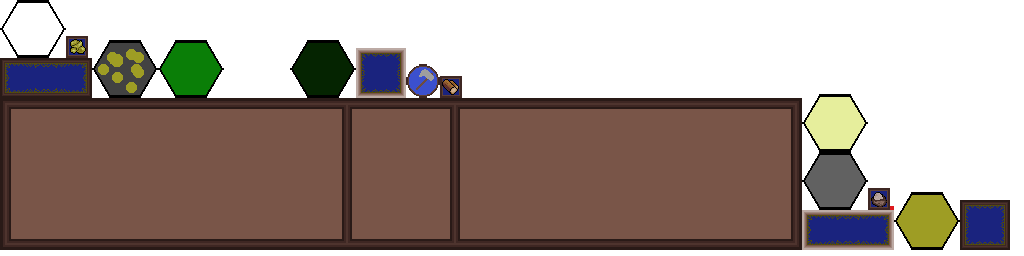
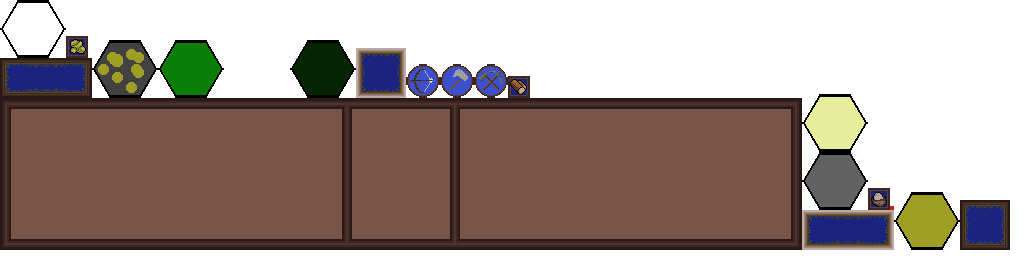
Workers and cities I guess

Changed region(s): [[0.4062, 0.25, 0.5312, 0.4062]]

diff --git a/LudumDare40/core/src/com/svarttand/ludumdare40/ui/PlayUI.java b/LudumDare40/core/src/com/svarttand/ludumdare40/ui/PlayUI.java
@@ -44,7 +44,8 @@ public class PlayUI {
 	private Button moveCommandButton;
 	private Button attackCommandButton;
 	private Button BuildCommandButton;
-	private Button button;
+	private Button makeWarriorButton;
+	private Button makeBuilderButton;
 	
 	private Label resourcesText;
 	private Label buildingInfoText;
@@ -104,21 +105,58 @@ public class PlayUI {
 	    buttonList.add(attackCommandButton);
 	    stage.addActor(attackCommandButton);
 	    
-	    BuildCommandButton = new TextButton("B", style);
-	    BuildCommandButton.setPosition(Application.V_WIDTH*0.14f, Application.V_HEIGHT*0.11f);
-	    BuildCommandButton.addListener( new ClickListener() {
+	    makeBuilderButton = new TextButton("Builder", style);
+	    makeBuilderButton.setPosition(Application.V_WIDTH*0.125f, Application.V_HEIGHT*0.11f);
+	    makeBuilderButton.addListener( new ClickListener() {
 	         @Override
 	         public void clicked(InputEvent event, float x, float y) {
 	        	 if (selectedUnit == null && selectedHexagon != null) {
-	        		 selectedUnit = selectedHexagon.addUnit(UnitType.WARRIOR, 1);
-					game.getUnitHandler().addUnit(selectedUnit);
-					System.out.println("Unit added");
+	        		 if (game.getResources().getFood()>= UnitType.WORKER.getFoodCost() && 
+	        			 game.getResources().getWood()>= UnitType.WORKER.getWoodCost() &&
+	        			 game.getResources().getGold()>= UnitType.WORKER.getGoldCost()) {
+	        			 selectedUnit = selectedHexagon.addUnit(UnitType.WORKER, 1);
+	 					game.getUnitHandler().addUnit(selectedUnit);
+	 					System.out.println("Unit added");
+	 					updateButtons();
+	 					
+	 					game.getResources().removeCost(UnitType.WORKER);
+	 					update(game.getResources());
+					}else{
+						System.out.println("Not enough money!");
+					}
+	        		
 				}
-	        	 BuildCommandButton.setChecked(false);
+	        	 makeBuilderButton.setChecked(false);
 	            }
 	        });
-	    buttonList.add(BuildCommandButton);
-	    stage.addActor(BuildCommandButton);
+	    buttonList.add(makeBuilderButton);
+	    stage.addActor(makeBuilderButton);
+	    
+	    makeWarriorButton = new TextButton("Warrior", style);
+	    makeWarriorButton.setPosition(Application.V_WIDTH*0.2f, Application.V_HEIGHT*0.11f);
+	    makeWarriorButton.addListener( new ClickListener() {
+	         @Override
+	         public void clicked(InputEvent event, float x, float y) {
+	        	 if (selectedUnit == null && selectedHexagon != null) {
+	        		 if (game.getResources().getFood()>= UnitType.WARRIOR.getFoodCost() && 
+		        			 game.getResources().getWood()>= UnitType.WARRIOR.getWoodCost() &&
+		        			 game.getResources().getGold()>= UnitType.WARRIOR.getGoldCost()) {
+		        			 selectedUnit = selectedHexagon.addUnit(UnitType.WARRIOR, 1);
+		 					game.getUnitHandler().addUnit(selectedUnit);
+		 					System.out.println("Unit added");
+		 					updateButtons();
+		 					
+		 					game.getResources().removeCost(UnitType.WARRIOR);
+		 					update(game.getResources());
+						}else{
+							System.out.println("Not enough money!");
+						}
+				}
+	        	 makeWarriorButton.setChecked(false);
+	            }
+	        });
+	    buttonList.add(makeWarriorButton);
+	    stage.addActor(makeWarriorButton);
 	    
 	    TextButtonStyle styleTurn = new TextButton.TextButtonStyle();
 	    styleTurn.font = font;
@@ -139,7 +177,8 @@ public class PlayUI {
 	    stage.addActor(endTurnButton);
 	    moveCommandButton.setVisible(false);
 		attackCommandButton.setVisible(false);
-		BuildCommandButton.setVisible(false);
+		makeBuilderButton.setVisible(false);
+		makeWarriorButton.setVisible(false);
 	    
 	}
 	
@@ -175,10 +214,16 @@ public class PlayUI {
 	public void setHex(Hexagon hex){
 		selectedHexagon = hex;
 		selectedUnit = hex.getUnit();
+		updateButtons();
+	}
+	
+	private void updateButtons(){
 		if (selectedHexagon.getType() == TileType.CITY) {
-			BuildCommandButton.setVisible(true);
+			makeBuilderButton.setVisible(true);
+			makeWarriorButton.setVisible(true);
 		}else{
-			BuildCommandButton.setVisible(false);
+			makeBuilderButton.setVisible(false);
+			makeWarriorButton.setVisible(false);
 		}
 		if (selectedUnit == null) {
 			moveCommandButton.setVisible(false);

diff --git a/LudumDare40/core/src/com/svarttand/ludumdare40/map/HexagonMap.java b/LudumDare40/core/src/com/svarttand/ludumdare40/map/HexagonMap.java
@@ -6,6 +6,7 @@ import java.util.Random;
 import com.badlogic.gdx.graphics.g2d.SpriteBatch;
 import com.badlogic.gdx.graphics.g2d.TextureAtlas;
 import com.badlogic.gdx.math.Vector2;
+import com.svarttand.ludumdare40.misc.ResourceHandler;
 import com.svarttand.ludumdare40.units.Unit;
 
 
@@ -20,7 +21,8 @@ public class HexagonMap {
 	
 	private Vector2 startPos;
 	
-	private ArrayList<Unit> unitList;
+	private ArrayList<Hexagon> cityList;
+	
 	
 	public HexagonMap(int x, int y){
 		sizeX = x;
@@ -28,12 +30,13 @@ public class HexagonMap {
 		map = new Hexagon[x][y];
 		Random random = new Random();
 		createMap(random);
-		unitList = new ArrayList<Unit>();
+		cityList = new ArrayList<Hexagon>();
 		int randx = random.nextInt((sizeX - 5)) + 3;
 		int randy = random.nextInt((sizeY - 5)) + 3;
 		
 		map[randx][randy].setType(TileType.CITY);
 		startPos = new Vector2(map[randx][randy].getPosX(), map[randx][randy].getPosY());
+		cityList.add(map[randx][randy]);
 	}
 	
 	private void createMap(Random random){
@@ -137,6 +140,14 @@ public class HexagonMap {
 	
 	public Vector2 getStartPos(){
 		return startPos;
+	}
+	
+	public void update(ResourceHandler handler){
+		for (int i = 0; i < cityList.size(); i++) {
+			for (int j = 0; j < cityList.get(i).getNeighbors().size(); j++) {
+				handler.addTilesResourcers(cityList.get(i).getNeighbors().get(j));
+			}
+		}
 	}
 
 }

diff --git a/LudumDare40/core/src/com/svarttand/ludumdare40/states/PlayState.java b/LudumDare40/core/src/com/svarttand/ludumdare40/states/PlayState.java
@@ -52,7 +52,7 @@ public class PlayState extends State{
 		
 		unitHandler = new UnitHandler();
 		cam.position.x = map.getStartPos().x;
-		cam.position.y = map.getStartPos().y;
+		cam.position.y = Application.V_HEIGHT*0.3f;
 		
 		resourceHandler = new ResourceHandler(5,5,5);
 	}
@@ -60,15 +60,15 @@ public class PlayState extends State{
 	@Override
 	protected void handleInput(float delta) {
 		//UP
-		if (Gdx.input.isKeyPressed(Keys.W)) {
-			cam.position.y = cam.position.y + CAM_SPEED*delta;
-
-		}
-		//DOWN
-		if (Gdx.input.isKeyPressed(Keys.S)) {
-			cam.position.y = cam.position.y - CAM_SPEED*delta;
-
-		}
+//		if (Gdx.input.isKeyPressed(Keys.W)) {
+//			cam.position.y = cam.position.y + CAM_SPEED*delta;
+//
+//		}
+//		//DOWN
+//		if (Gdx.input.isKeyPressed(Keys.S)) {
+//			cam.position.y = cam.position.y - CAM_SPEED*delta;
+//
+//		}
 		//LEFT
 		if (Gdx.input.isKeyPressed(Keys.A)) {
 			cam.position.x = cam.position.x - CAM_SPEED*delta;
@@ -139,7 +139,9 @@ public class PlayState extends State{
 
 	public void nextTurn() {
 		unitHandler.nextTurn();
+		map.update(resourceHandler);
 		ui.update(resourceHandler);
+		
 		
 	}
 	

diff --git a/LudumDare40/core/src/com/svarttand/ludumdare40/units/UnitType.java b/LudumDare40/core/src/com/svarttand/ludumdare40/units/UnitType.java
@@ -1,20 +1,40 @@
 package com.svarttand.ludumdare40.units;
 
 public enum UnitType {
-	WARRIOR("Warrior", 2, 1, 20,10);
+	WARRIOR("Warrior", 2, 1, 20,10, 5,5,0),
+	WORKER("Worker", 2,0,10,0, 5,10,0),
+	ARCHER("Archer", 2, 2,15,5,5,10,0);
 	
 	private String path;
 	private int movments;
 	private int range;
 	private int hp;
 	private int dmg;
+	private int foodCost;
+	private int woodCost;
+	private int goldCost;
 	
-	private UnitType(String p, int m, int r, int h, int d){
+	private UnitType(String p, int m, int r, int h, int d, int food, int wood, int gold){
 		path = p;
 		movments = m;
 		range = r;
 		hp = h;
 		dmg = d;
+		foodCost = food;
+		goldCost = gold;
+		woodCost = wood;
+	}
+
+	public int getFoodCost() {
+		return foodCost;
+	}
+
+	public int getWoodCost() {
+		return woodCost;
+	}
+
+	public int getGoldCost() {
+		return goldCost;
 	}
 
 	public String getPath() {
@@ -36,6 +56,7 @@ public enum UnitType {
 	public int getDmg() {
 		return dmg;
 	}
+	
 	
 	
 

diff --git a/LudumDare40/core/src/com/svarttand/ludumdare40/misc/ResourceHandler.java b/LudumDare40/core/src/com/svarttand/ludumdare40/misc/ResourceHandler.java
@@ -1,5 +1,8 @@
 package com.svarttand.ludumdare40.misc;
 
+import com.svarttand.ludumdare40.map.Hexagon;
+import com.svarttand.ludumdare40.units.UnitType;
+
 public class ResourceHandler {
 	
 	private int wood;
@@ -34,6 +37,20 @@ public class ResourceHandler {
 
 	public void setFood(int food) {
 		this.food = food;
+	}
+
+	public void removeCost(UnitType type) {
+		food = food - type.getFoodCost();
+		wood = wood - type.getWoodCost();
+		gold = gold - type.getGoldCost();
+		
+	}
+
+	public void addTilesResourcers(Hexagon hexagon) {
+		food = food + hexagon.getType().getFood();
+		wood = wood + hexagon.getType().getWood();
+		gold = gold + hexagon.getType().getGold();
+		
 	}
 	
 

diff --git a/LudumDare40/core/src/com/svarttand/ludumdare40/map/TileType.java b/LudumDare40/core/src/com/svarttand/ludumdare40/map/TileType.java
@@ -30,6 +30,20 @@ public enum TileType {
 	public int getMovmentCost(){
 		return movmentCost;
 	}
+
+	public int getGold() {
+		return gold;
+	}
+
+	public int getFood() {
+		return food;
+	}
+
+	public int getWood() {
+		return wood;
+	}
+	
+	
 	
 
 }
